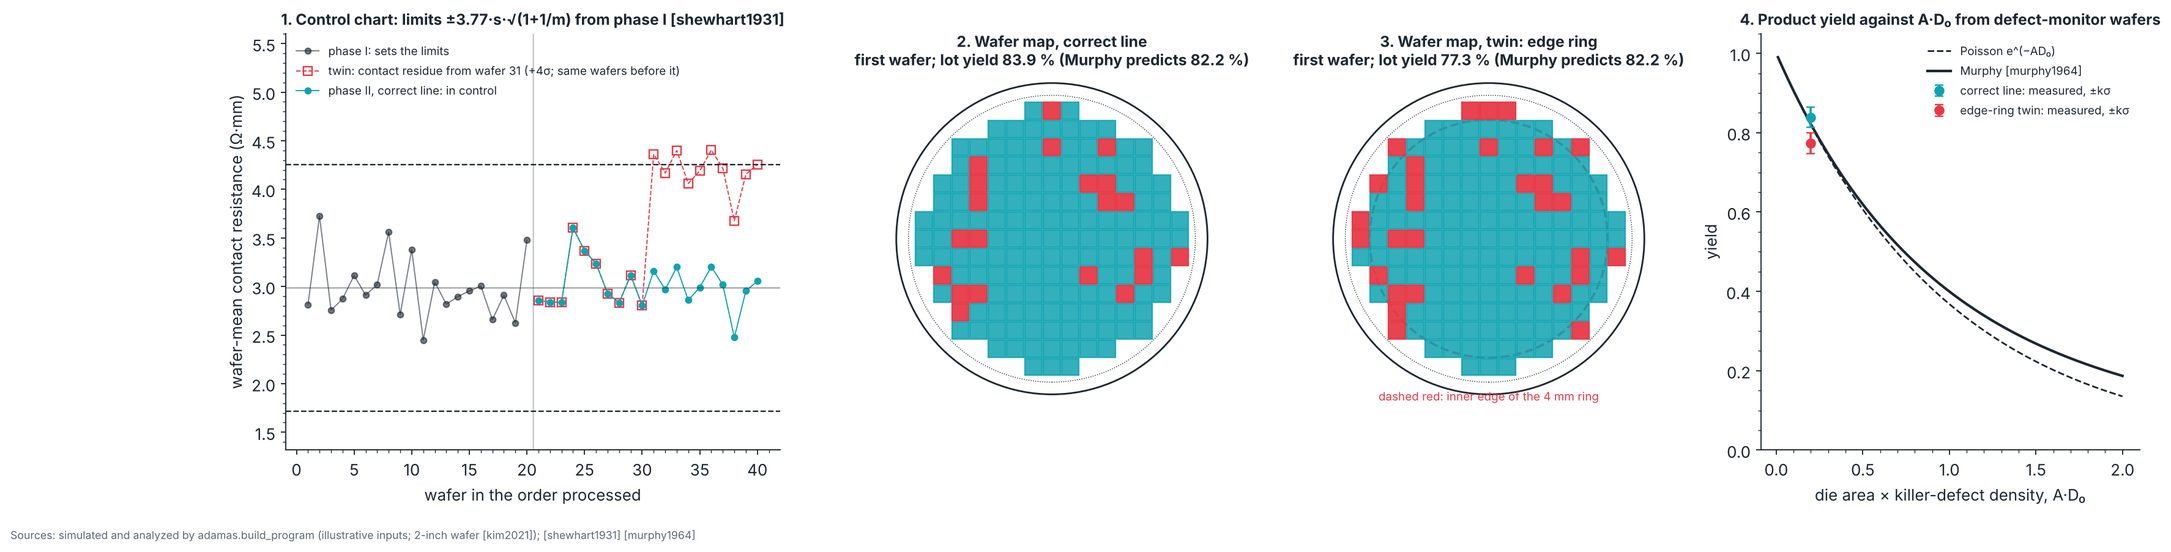
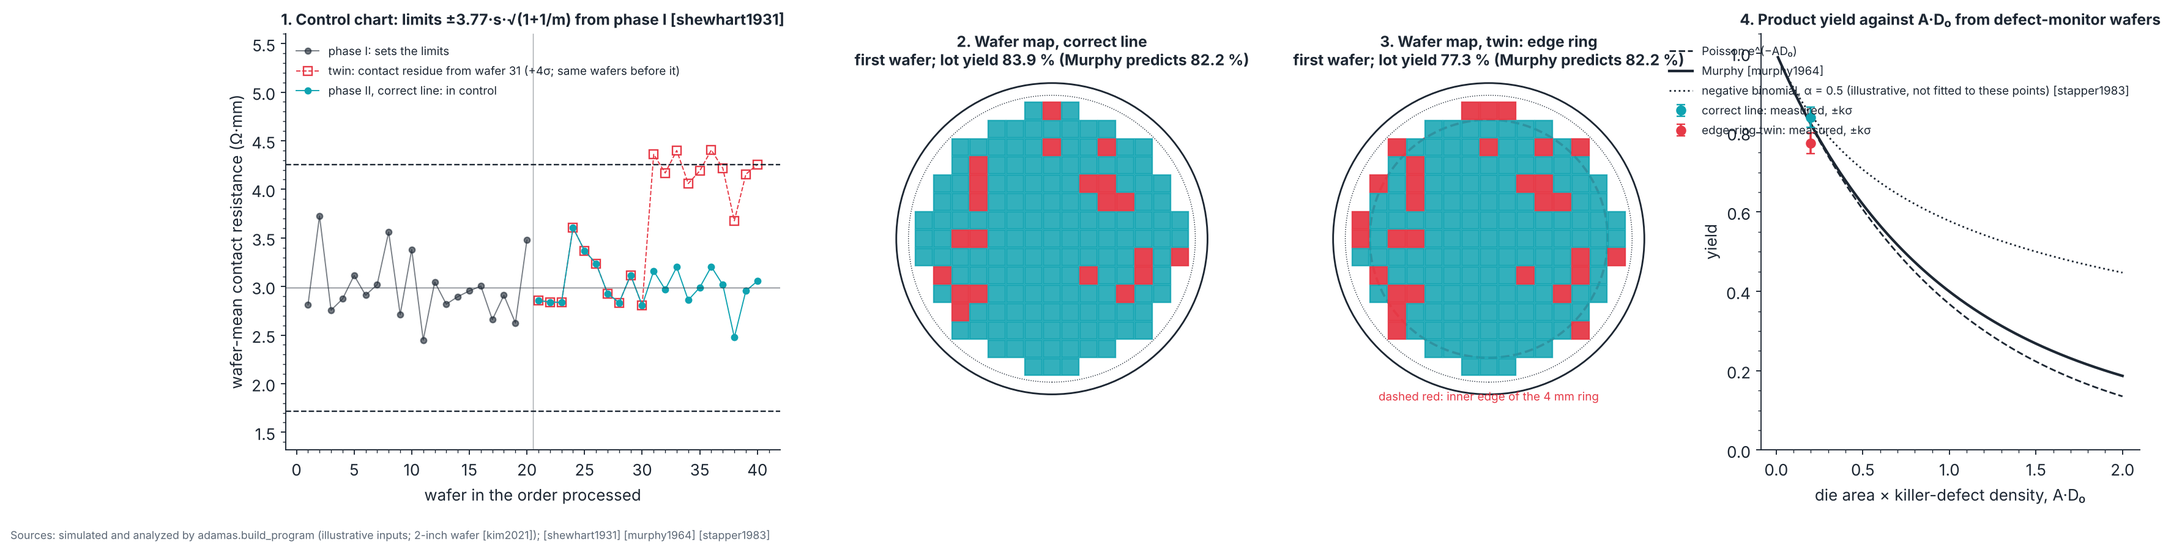
v0.51.0: clustered killer defects in the pilot line
adamas.wafer adds Stapper's negative-binomial yield and a method-of-moments fit
of the cluster parameter; P7 simulates a clustered line and compares the
Poisson, Murphy and negative-binomial predictions; Figure 60 curve.

Claude-Session: https://claude.ai/code/session_01ThWvxuHhx2XJuEF7t2uw3V

Changed region(s): [[0.7751, 0.1242, 0.9921, 0.2483], [0.31, 0.9623, 0.341, 0.9933]]

diff --git a/adamas/build_program.py b/adamas/build_program.py
@@ -1542,6 +1542,10 @@ P7_D0_CM2 = 2.0              # mean killer-defect density, cm^-2 (illustrative; 
 P7_DEFECT_MONITORS = 10      # defect-monitor wafers inspected in full to measure D0, apart from the product wafers (illustrative)
 P7_RING_MM = 4.0             # degraded twin: dies whose centre is within this of the edge exclusion lose growth uniformity
 P7_RING_FAIL = 0.5           # ... and fail with this extra probability (illustrative)
+P7_ALPHA = 0.5               # clustered-defect line: gamma-distributed density with cluster parameter alpha [stapper1983] (illustrative)
+P7_CLUSTER_DIE_MM = 10.0     # a product-sized die for the clustering check: A D0 = 2, where the yield models differ (illustrative)
+P7_BOOT = 200                # bootstrap resamples of the monitor sites for the uncertainty of a predicted yield
+P7_CLUSTER_RUNS = 200        # simulated clustered lines over which both yield models are judged
 
 
 def _k7() -> float:
@@ -1660,6 +1664,42 @@ def p7_good_dies_table(d0_cm2: float, areas_mm2=(1.0, 9.0, 25.0, 100.0)) -> list
 
 
 
+def p7_clustered(seed: int = 7, alpha: float = P7_ALPHA, die_mm: float = P7_CLUSTER_DIE_MM) -> dict:
+    """A line whose killer defects cluster: each die site's density is drawn from a gamma distribution with mean D0 and
+    cluster parameter alpha, so the counts per site are negative-binomial and the expected yield is Stapper's
+    (1 + A D0 / alpha)^(-alpha) [stapper1983]. D0 and alpha are fitted to the defect-monitor counts (alpha by the method
+    of moments, adamas.wafer.fit_cluster_alpha); the product yield is then compared with the Poisson, Murphy and fitted
+    negative-binomial predictions, each judged within k sigma, where sigma combines the binomial spread of the measured
+    yield and the bootstrap spread of the prediction (P7_BOOT resamples of the monitor sites). This is the yield-model
+    meaning of clustering (density varies from die to die); a spatial cluster map is not modeled."""
+    from .wafer import fit_cluster_alpha, murphy_yield, negative_binomial_yield
+    r = _rng7(seed, 2); sites = p7_die_sites(die_mm=die_mm); n = sites.shape[0] * P7_MONITOR_WAFERS; n_m = sites.shape[0] * P7_DEFECT_MONITORS
+    a_cm2, area = (die_mm / 10) ** 2, die_mm ** 2
+    dens = lambda m: r.gamma(alpha, P7_D0_CM2 / alpha, m)       # noqa: E731
+    good = r.poisson(a_cm2 * dens(n)) == 0
+    c = r.poisson(a_cm2 * dens(n_m))
+    def predict(cc):
+        d0 = float(cc.mean() / a_cm2); al = fit_cluster_alpha(cc)
+        return {"poisson": math.exp(-a_cm2 * d0), "murphy": murphy_yield(area, d0), "nb": negative_binomial_yield(area, d0, al)}, d0, al
+    pred, d0, al = predict(c)
+    boot = [predict(c[r.integers(0, n_m, n_m)])[0] for _ in range(P7_BOOT)]
+    y = float(good.mean()); k = _k7(); out = {}
+    for m in ("poisson", "murphy", "nb"):
+        sp = float(np.std([b[m] for b in boot], ddof=1)); sigma = math.hypot(math.sqrt(y * (1 - y) / n), sp)
+        out[m] = {"y_pred": pred[m], "diff": y - pred[m], "sigma": sigma, "pass": bool(abs(y - pred[m]) <= k * sigma)}
+    return {"alpha_true": alpha, "alpha_fit": al, "d0_cm2": d0, "y_meas": y, "y_true": negative_binomial_yield(area, P7_D0_CM2, alpha), "die_mm": die_mm,
+            "dies": int(n), "monitor_sites": int(n_m), "k": k, "models": out}
+
+
+@lru_cache(maxsize=2)
+def p7_clustered_rates(runs: int = P7_CLUSTER_RUNS) -> dict:
+    """How often each yield model agrees with the measured yield of a clustered line (seeds 7000 + i)."""
+    res = [p7_clustered(7000 + i) for i in range(runs)]
+    al = [x["alpha_fit"] for x in res if math.isfinite(x["alpha_fit"])]
+    return {"runs": runs, **{m: sum(x["models"][m]["pass"] for x in res) / runs for m in ("poisson", "murphy", "nb")},
+            "alpha_median": float(np.median(al)) if al else math.inf, "alpha_finite": len(al) / runs}
+
+
 def p7_bill() -> dict:
     """Parts and price range for P7: the D2 part list (estimates from adamas.experiments, not quotes)."""
     from .experiments import EXPERIMENTS
@@ -1708,13 +1748,15 @@ def p7_figure(out: str | Path = "docs/img") -> Path:
     a = ax[3]; xx = np.linspace(0.01, 2.0, 200)
     a.plot(xx, np.exp(-xx), color=INK, lw=1.2, ls="--", label="Poisson e^(−AD₀)")
     a.plot(xx, [murphy_yield(100 * x, 1.0) for x in xx], color=INK, lw=1.8, label="Murphy [murphy1964]")
+    from .wafer import negative_binomial_yield
+    a.plot(xx, [negative_binomial_yield(100 * x, 1.0, P7_ALPHA) for x in xx], color=INK, lw=1.2, ls=":", label=f"negative binomial, α = {P7_ALPHA:g} (illustrative, not fitted to these points) [stapper1983]")
     for y, col, lab in ((g["yield"], COLORS["Diamond"], "correct line"), (b["yield"], RED, "edge-ring twin")):
         ad = (P7_DIE_MM / 10) ** 2 * y["d0_cm2"]
         a.errorbar([ad], [y["y_meas"]], yerr=[y["k"] * y["sigma"]], fmt="o", color=col, ms=6, capsize=3, label=f"{lab}: measured, ±kσ")
     a.legend(fontsize=8, loc="upper right"); a.set_ylim(0, 1.05)
     a.set_title("4. Product yield against A·D₀ from defect-monitor wafers", fontsize=10.5)
     a.set_xlabel("die area × killer-defect density, A·D₀"); a.set_ylabel("yield")
-    return _finish(fig, out, "fig60_build_p7.png", "simulated and analyzed by adamas.build_program (illustrative inputs; 2-inch wafer [kim2021]); [shewhart1931] [murphy1964]")
+    return _finish(fig, out, "fig60_build_p7.png", "simulated and analyzed by adamas.build_program (illustrative inputs; 2-inch wafer [kim2021]); [shewhart1931] [murphy1964] [stapper1983]")
 
 
 def _p7_rates_note(rates: dict) -> str:
@@ -1744,6 +1786,12 @@ def _p7_md() -> str:
     pct = lambda v: f"{100 * v:.1f} %"   # noqa: E731
     money = lambda v: f"${v / 1e6:g} M"   # noqa: E731
     bill = p7_bill(); table = p7_good_dies_table(y["d0_cm2"])
+    cl0, clr = p7_clustered(), p7_clustered_rates()
+    alpha_note = '' if clr['alpha_finite'] == 1 else f" (over the {100 * clr['alpha_finite']:.1f} % of runs whose counts were over-dispersed)"
+    from .wafer import murphy_yield, negative_binomial_yield, poisson_yield
+    def _spread(die_mm):
+        ys = (poisson_yield(die_mm ** 2, P7_D0_CM2), murphy_yield(die_mm ** 2, P7_D0_CM2), negative_binomial_yield(die_mm ** 2, P7_D0_CM2, P7_ALPHA))
+        return 100 * (max(ys) - min(ys))
     machines = ", ".join(f"{k} {atlas.tool(k)}" for k in P7_MACHINES).replace("YSZ", "yttria-stabilized zirconia (YSZ)", 1)
     hazards = " ".join(dict.fromkeys(h for sid in ("S03", "S17") for h in st[sid]["safety"]))
     verdict = ("Both simulated checks pass and both degraded twins fail, so the analysis can tell a stable, defect-limited line from a drifting or edge-limited one; the gate is decided by the numbers measured on your line."
@@ -1826,9 +1874,23 @@ At the measured D₀ = {y['d0_cm2']:.2f} cm⁻², usable diameter {P7_WAFER_MM -
 
 Yield falls steeply with die area, so at this D₀ small dies (sensors, discrete switches) get by far the most good dies per wafer, and large dies (qubit arrays, large power switches) need a lower D₀. Which product pays for the line also needs each product's price and test cost, which are not sourced ([STATUS.md](../STATUS.md)).
 
+## Clustered defects (simulated)
+
+Killer defects often cluster: some dies collect several while others have none, which raises yield at a given D₀ compared with the Poisson model. Stapper's negative-binomial model [stapper1983] describes this with a cluster parameter α: Y = (1 + A·D₀/α)^(−α) (`adamas.wafer.negative_binomial_yield`). Small α means strong clustering; α → ∞ is the Poisson model. α is measured from defect-monitor counts binned on the product die's area (α measured on one area does not carry over to another): the counts per site spread more than Poisson, with variance m + m²/α for mean m, so α = m²/(s² − m) (`adamas.wafer.fit_cluster_alpha`, method of moments).
+
+A simulated line (`adamas.build_program.p7_clustered`) draws each site's density from a gamma distribution with mean D₀ = {P7_D0_CM2:g} cm⁻² and α = {P7_ALPHA:g} (illustrative), on a {P7_CLUSTER_DIE_MM:g} mm product die where A·D₀ = {(P7_CLUSTER_DIE_MM / 10) ** 2 * P7_D0_CM2:g} and the models differ (true yield {pct(cl0['y_true'])}); each line has {cl0['dies']} product dies and {cl0['monitor_sites']} monitor sites of that size. One such line cannot tell the models apart (its yield is uncertain by about ±{100 * cl0['models']['nb']['sigma']:.0f} percentage points); repeating it can. Over {clr['runs']} simulated lines, the measured product yield agreed within k sigma (bootstrap spread of the prediction plus binomial spread of the yield) with each model as below; a correct model is expected to agree in about {pct(P7_TEST_COVERAGE)} of runs (binomial standard error over {clr['runs']} runs: {100 * math.sqrt(P7_TEST_COVERAGE * (1 - P7_TEST_COVERAGE) / clr['runs']):.1f} points).
+
+| Model fitted to the monitor counts | Runs that agree |
+|---|---|
+| Poisson, e^(−A·D₀) | {pct(clr['poisson'])} |
+| Murphy [murphy1964] | {pct(clr['murphy'])} |
+| Negative binomial with fitted α [stapper1983] | {pct(clr['nb'])} |
+
+The median fitted α was {clr['alpha_median']:.2f}{alpha_note}. On the {P7_DIE_MM:g} mm monitor die (A·D₀ = {(P7_DIE_MM / 10) ** 2 * P7_D0_CM2:g}) the three models at the same D₀ and α differ by {_spread(P7_DIE_MM):.1f} percentage points, against {_spread(P7_CLUSTER_DIE_MM):.1f} on the product die, so clustering matters most for large dies. This models die-to-die variation of density; a spatial cluster map (defects grouped in regions of a wafer) is not modeled.
+
 ## Not yet simulated
 
-- **Spatially clustered defects:** each die's density is drawn independently; real defects cluster (Stapper's negative-binomial model [stapper1983]), which raises yield at a given D₀ and widens wafer-to-wafer spread.
+- **Spatial cluster maps:** clustering enters only through the die-to-die spread of density (above); where on the wafer the clusters sit is not modeled.
 - **Small drifts:** cumulative-sum (CUSUM) or exponentially weighted moving-average (EWMA) charts.
 - **Several parameters at once:** only R_c is charted; a line charts every traveler check (threshold, sheet resistance, leakage, NV yield).
 - **Defect density's effect on leakage and coherence:** dislocation densities by substrate class are in `adamas.wafer`, but no model links them to leakage current or T₂ yet.

diff --git a/tests/test_clustered_yield.py b/tests/test_clustered_yield.py
@@ -1,0 +1,37 @@
+"""Clustered killer defects (v0.51.0): Stapper's negative-binomial yield, the fit of its cluster parameter, and P7's check."""
+import math
+
+import numpy as np
+import pytest
+
+from adamas import build_program as B
+from adamas import wafer
+
+
+def test_negative_binomial_yield_limits():
+    assert wafer.negative_binomial_yield(9, 2, math.inf) == pytest.approx(wafer.poisson_yield(9, 2))
+    assert wafer.negative_binomial_yield(9, 2, 1e9) == pytest.approx(wafer.poisson_yield(9, 2), rel=1e-6)
+    assert wafer.negative_binomial_yield(100, 2, 0.5) == pytest.approx(5 ** -0.5)      # (1 + 2 / 0.5)^(-0.5)
+    assert wafer.negative_binomial_yield(0, 2, 0.5) == 1.0
+    ys = [wafer.negative_binomial_yield(100, 2, a) for a in (0.3, 1, 3, 10)]          # stronger clustering, higher yield
+    assert ys == sorted(ys, reverse=True)
+
+
+def test_cluster_parameter_is_recovered_from_counts():
+    r = np.random.default_rng(1)
+    for alpha in (0.5, 2.0):
+        c = r.poisson(r.gamma(alpha, 1.5 / alpha, 200_000))
+        assert wafer.fit_cluster_alpha(c) == pytest.approx(alpha, rel=0.05)
+    a = wafer.fit_cluster_alpha(r.poisson(1.5, 200_000))
+    assert a > 50                                                  # Poisson counts: no clustering (inf, or a very large alpha)
+    assert math.isinf(wafer.fit_cluster_alpha([1, 1, 1, 1])) and math.isinf(wafer.fit_cluster_alpha([3]))
+    with pytest.raises(ValueError):
+        wafer.negative_binomial_yield(9, 2, 0)
+
+
+def test_p7_clustered_line_is_explained_by_the_negative_binomial_model_only():
+    x = B.p7_clustered()
+    assert x["y_true"] == pytest.approx(5 ** -0.5) and set(x["models"]) == {"poisson", "murphy", "nb"}
+    rates = B.p7_clustered_rates()
+    assert rates["nb"] >= 0.93 and rates["poisson"] <= 0.1 and rates["murphy"] <= 0.1
+    assert rates["alpha_median"] == pytest.approx(B.P7_ALPHA, rel=0.2)

diff --git a/adamas/wafer.py b/adamas/wafer.py
@@ -3,6 +3,9 @@
 Gross dies per wafer (standard edge-loss approximation, see [plummer2000]):
     DPW = pi (d/2)^2 / A  -  pi d / sqrt(2 A)
 Yield models: Poisson Y = exp(-A D0); Murphy Y = ((1 - exp(-A D0)) / (A D0))^2 ([murphy1964], [stapper1983]).
+Negative binomial (clustered defects, [stapper1983]): Y = (1 + A D0 / alpha)^(-alpha); a gamma-distributed density with
+cluster parameter alpha gives negative-binomial counts per die, with variance m + m^2 / alpha for mean count m. Small alpha
+means strong clustering; alpha -> infinity is Poisson.
 """
 from __future__ import annotations
 import math
@@ -39,6 +42,25 @@ def poisson_yield(die_area_mm2: float, d0_per_cm2: float) -> float:
 def murphy_yield(die_area_mm2: float, d0_per_cm2: float) -> float:
     x = die_area_mm2 * 1e-2 * d0_per_cm2
     return 1.0 if x == 0 else (-math.expm1(-x) / x) ** 2   # expm1 keeps precision when A*D0 is tiny
+
+
+def negative_binomial_yield(die_area_mm2: float, d0_per_cm2: float, alpha: float) -> float:
+    """Stapper's clustered-defect yield [stapper1983]; alpha = inf gives the Poisson yield."""
+    if not alpha > 0:
+        raise ValueError("cluster parameter alpha must be positive")
+    x = die_area_mm2 * 1e-2 * d0_per_cm2
+    return math.exp(-x) if math.isinf(alpha) else (1 + x / alpha) ** (-alpha)
+
+
+def fit_cluster_alpha(counts) -> float:
+    """Cluster parameter alpha from defect counts per site by the method of moments, alpha = m^2 / (s^2 - m);
+    inf when the counts are no more spread than Poisson (no clustering detected)."""
+    import numpy as np
+    c = np.asarray(counts, dtype=float)
+    if c.size < 2:
+        return math.inf
+    m, v = float(c.mean()), float(c.var(ddof=1))
+    return math.inf if v <= m or m == 0 else m * m / (v - m)
 
 
 def good_dies(diameter_mm: float, die_area_mm2: float, d0_per_cm2: float) -> float:

diff --git a/adamas/__init__.py b/adamas/__init__.py
@@ -3,6 +3,6 @@ nitrogen-vacancy (NV) quantum processors.
 
 Every formula in this package carries a ``[bibkey]`` that resolves in references/REFERENCES.md.
 """
-__version__ = "0.50.0"
+__version__ = "0.51.0"
 from . import constants, materials, doping, thermal, wafer, power, logic, nv, coupling, register  # noqa: F401
 from . import litho, digital, analog, opensys, qec, gate_budget, surface_sim, converter, scaling, pdk0, stdcells, explorer, poster, orfs_platform, circuit_qec, resource, course, photophysics, traveler, experiments, fitting, glossary, paper, uncertainty, validation, decision  # noqa: F401,E402

diff --git a/CHANGELOG.md b/CHANGELOG.md
@@ -4,6 +4,7 @@ Every release is a squash-merged pull request on `main`, tagged and published as
 
 | Version | Highlights |
 |---|---|
+| 0.51.0 | Clustered killer defects in the pilot line. Build phase P7 explained yield with Murphy's model only; `adamas.wafer` now adds Stapper's negative-binomial yield (1 + A·D₀/α)^(−α) [stapper1983] and a method-of-moments fit of the cluster parameter α from defect-monitor counts. A simulated clustered line (each die's density drawn from a gamma distribution, α = 0.5 and a 10 mm die with A·D₀ = 2, illustrative) is explained by the fitted negative-binomial model in 98.5 % of 200 runs, against 1.5 % for Murphy and 0.5 % for Poisson; on the 3 mm monitor die the three models differ by 2.2 percentage points, against 31.2 on the product die. The P7 page gains a "Clustered defects" section and Figure 60 a negative-binomial curve. A spatial cluster map is still not modeled. Three new tests. |
 | 0.50.0 | Error correction against both error types. The three-qubit code that build phase P6 runs corrects bit flips only; `adamas.qec` now adds the phase-flip code (the same three qubits in the Hadamard basis, same failure probability 3p² − 2p³) and the nine-qubit code [shor1995], which corrects one bit flip and one phase flip. Its failure probability under independent bit and phase flips is given in closed form and checked against exhaustive minimum-weight decoding of all 2⁹ patterns of each error type (agreement to 10⁻¹²). With both flips at probability p and perfect encoding and correction gates, it beats one unencoded qubit only below p = 0.079 (simulated; a property of the code under this noise model, not a hardware threshold). Figure 64 compares no code, the three-qubit code and the nine-qubit code; the P6 page states the result and that nine qubits per logical qubit would need linked cells (proposed, not modeled). Ten new tests. |
 | 0.49.0 | Fab Journey photos, with each license read from Wikimedia Commons. The build machine that writes this repository cannot reach Wikimedia Commons, so no license is typed by hand: `python -m adamas.photos` (or `make photos`) asks the Commons application programming interface (API) for each candidate's license, author and source, keeps only public-domain, CC0, CC BY and CC BY-SA files (any version) with no stated restriction, saves a 1024-pixel copy under `docs/img/photos/`, and writes the credit to `references/images.psv`; a file with any other license, no stated author or no page is skipped and reported. Four candidates found by web search on 18 November 2026: a heteroepitaxial single-crystal diamond (W1; it appears to be the crystal shown in [schreck2017], to be checked against the Commons description), a chemical vapor deposition chamber that is not a diamond reactor and is captioned so (S03), an electron-beam lithography tool (S05) and wire bonding (S19). The Fab Journey web page, its printed manuals and the generated pages show each logged photo with its title, author, linked license, source link and caption; photos keep their own licenses, not the repository's MIT license; with none logged they say so, as before. The apply script runs the fetch on the owner's machine. Tests cover the license filter (non-commercial and no-derivatives licenses are rejected), the reply parser and the candidate list. |
 | 0.48.0 | Every Atlas machine now has a published price. The last five unpriced machines carry the figures that exist, each saying what it does not cover: a microwave plasma chemical vapor deposition (MPCVD) diamond growth machine listed at US$136,000 to 150,000 [alibabampcvd2026] and a 6 kW chemical vapor deposition (CVD) machine at US$158,000 to 175,000 [alibabacvd2026] (marketplace listings, supplier not named); high-pressure high-temperature (HPHT) single-crystal plates at US$5 to 100 a piece [micmoresuperhard2026] [micchenguang2026] (marketplace listings); an 18 × 18 mm single-crystal substrate at US$23, plus a US$500 handling fee per order and shipping [dfsubstrate2026] (growth method not stated, standing in for the heteroepitaxy stack); femtosecond laser time at 25 to 90 EUR [ucmfs2026] or US$24.20 to 30.25 an hour [asuultrafast2026] (standing in for laser writing of vacancies); and an unmanned-aircraft magnetometer at US$395 a day plus US$365 mobilization [geometrics2026], with the Earth Magnetic Anomaly Grid (EMAG2) listed with no fee [ncei2025]. The Atlas now reads 38 sourced, 20 estimated, 1 included, 1 no cost, 0 unpriced. 691 references. |

diff --git a/docs/build/P7_pilot_line.md b/docs/build/P7_pilot_line.md
@@ -79,9 +79,23 @@ At the measured D₀ = 2.21 cm⁻², usable diameter 47 mm. Gross dies come from
 
 Yield falls steeply with die area, so at this D₀ small dies (sensors, discrete switches) get by far the most good dies per wafer, and large dies (qubit arrays, large power switches) need a lower D₀. Which product pays for the line also needs each product's price and test cost, which are not sourced ([STATUS.md](../STATUS.md)).
 
+## Clustered defects (simulated)
+
+Killer defects often cluster: some dies collect several while others have none, which raises yield at a given D₀ compared with the Poisson model. Stapper's negative-binomial model [stapper1983] describes this with a cluster parameter α: Y = (1 + A·D₀/α)^(−α) (`adamas.wafer.negative_binomial_yield`). Small α means strong clustering; α → ∞ is the Poisson model. α is measured from defect-monitor counts binned on the product die's area (α measured on one area does not carry over to another): the counts per site spread more than Poisson, with variance m + m²/α for mean m, so α = m²/(s² − m) (`adamas.wafer.fit_cluster_alpha`, method of moments).
+
+A simulated line (`adamas.build_program.p7_clustered`) draws each site's density from a gamma distribution with mean D₀ = 2 cm⁻² and α = 0.5 (illustrative), on a 10 mm product die where A·D₀ = 2 and the models differ (true yield 44.7 %); each line has 180 product dies and 90 monitor sites of that size. One such line cannot tell the models apart (its yield is uncertain by about ±7 percentage points); repeating it can. Over 200 simulated lines, the measured product yield agreed within k sigma (bootstrap spread of the prediction plus binomial spread of the yield) with each model as below; a correct model is expected to agree in about 97.5 % of runs (binomial standard error over 200 runs: 1.1 points).
+
+| Model fitted to the monitor counts | Runs that agree |
+|---|---|
+| Poisson, e^(−A·D₀) | 0.5 % |
+| Murphy [murphy1964] | 1.5 % |
+| Negative binomial with fitted α [stapper1983] | 98.5 % |
+
+The median fitted α was 0.50. On the 3 mm monitor die (A·D₀ = 0.18) the three models at the same D₀ and α differ by 2.2 percentage points, against 31.2 on the product die, so clustering matters most for large dies. This models die-to-die variation of density; a spatial cluster map (defects grouped in regions of a wafer) is not modeled.
+
 ## Not yet simulated
 
-- **Spatially clustered defects:** each die's density is drawn independently; real defects cluster (Stapper's negative-binomial model [stapper1983]), which raises yield at a given D₀ and widens wafer-to-wafer spread.
+- **Spatial cluster maps:** clustering enters only through the die-to-die spread of density (above); where on the wafer the clusters sit is not modeled.
 - **Small drifts:** cumulative-sum (CUSUM) or exponentially weighted moving-average (EWMA) charts.
 - **Several parameters at once:** only R_c is charted; a line charts every traveler check (threshold, sheet resistance, leakage, NV yield).
 - **Defect density's effect on leakage and coherence:** dislocation densities by substrate class are in `adamas.wafer`, but no model links them to leakage current or T₂ yet.

diff --git a/docs/STATUS.md b/docs/STATUS.md
@@ -2,7 +2,17 @@
 
 This file lists everything in ADAMAS that is not finished, so nothing is skipped silently. Each item says whether it was fixed, why it waits, and what would close it. It is updated with every release; the audit's fix status is in [AUDIT.md §9](AUDIT.md#9-fix-status-in-v0270).
 
-Last updated: v0.50.0 (2026-11-18).
+Last updated: v0.51.0 (2026-11-20).
+
+## Open in v0.51.0: clustered killer defects
+
+[P7](build/P7_pilot_line.md) now fits Stapper's negative-binomial yield [stapper1983] with a cluster parameter measured from the defect-monitor counts. What is still open:
+
+| Item | Why it waits | What would close it |
+|---|---|---|
+| The cluster parameter α = 0.5 and the 10 mm product die | Illustrative; no diamond inspection data give α | α fitted to counts from real defect-monitor wafers |
+| Where clusters sit on the wafer | Clustering enters only as die-to-die spread of density | A spatial wafer-map model (for example correlated density fields) fitted to inspection maps |
+| The P7 gate itself | Still judges the monitor die with Murphy's model, where the models differ by 2.2 percentage points | Choose the model from the fitted α once real counts exist |
 
 ## Open in v0.50.0: error correction against both error types
 
@@ -163,7 +173,7 @@ The [Atlas](build/ATLAS.md) (`adamas.atlas_prices`) prices the 60 machines with 
 |---|---|---|
 | Illustrative inputs | The wafer-to-wafer spread of contact resistance, the killer-defect density (2 cm⁻²), the edge exclusion and both faults are chosen, not measured. The 2-inch wafer size [kim2021] and the 3 mm monitor die are the only fixed inputs; P4's contact resistance is itself illustrative | Values from a pilot-line run |
 | Cost per good die and the product decision | No sourced wafer, test or product price; D2's part list is a planning estimate | Quotes and product prices |
-| Clustered defects | Each die's density is drawn independently; real defects cluster [stapper1983] | A negative-binomial wafer-map model fitted to inspection data |
+| Clustered defects | Partly closed in v0.51.0: a negative-binomial yield with a fitted cluster parameter [stapper1983]; spatial cluster maps are still open (Open in v0.51.0) | A spatial wafer-map model fitted to inspection data |
 | Small drifts and several parameters | Only a Shewhart chart of one parameter | CUSUM or EWMA charts over every traveler check |
 | Defect density to leakage and coherence | No model links dislocation density to leakage current or T₂ | Measured leakage and T₂ against etch-pit density |
 | Product qualification | No sourced reliability criteria per product | Qualification standards for each product line |

diff --git a/docs/AUDIT.md b/docs/AUDIT.md
@@ -265,6 +265,10 @@ Deferred or open: the experiment-ID rename of E29 (the two ID lists are explaine
 
 Copper's thermal conductivity [ho1972] and the high-pressure plate size [stoupin2016] are now sourced; the addressing issue (section 2c) has a tested model and lab (`adamas.addressing`), and the gate-bias argument has a Stim-checked propagation model (`adamas.gatebias`). What remains deferred or assumed, and why, is kept in one place: [STATUS.md](STATUS.md).
 
+### Status after v0.51.0 (clustered killer defects)
+
+The negative-binomial result is simulated with illustrative inputs (α = 0.5, a 10 mm die); it shows that the yield model must be chosen from the measured spread of defect counts, not that diamond defects cluster with this α. The 98.5 % agreement rate is over 200 simulated lines with a target coverage of 97.47 % per check, within the run-to-run uncertainty.
+
 ### Status after v0.50.0 (error correction against both error types)
 
 The nine-qubit code's failure probability is a closed-form result checked by exhaustive decoding, labeled simulated. The 0.079 break-even holds only for the stated noise model (independent bit and phase flips of equal probability, perfect gates); it is not a threshold for NV hardware, and no nine-qubit code on room-temperature NV registers is claimed.
